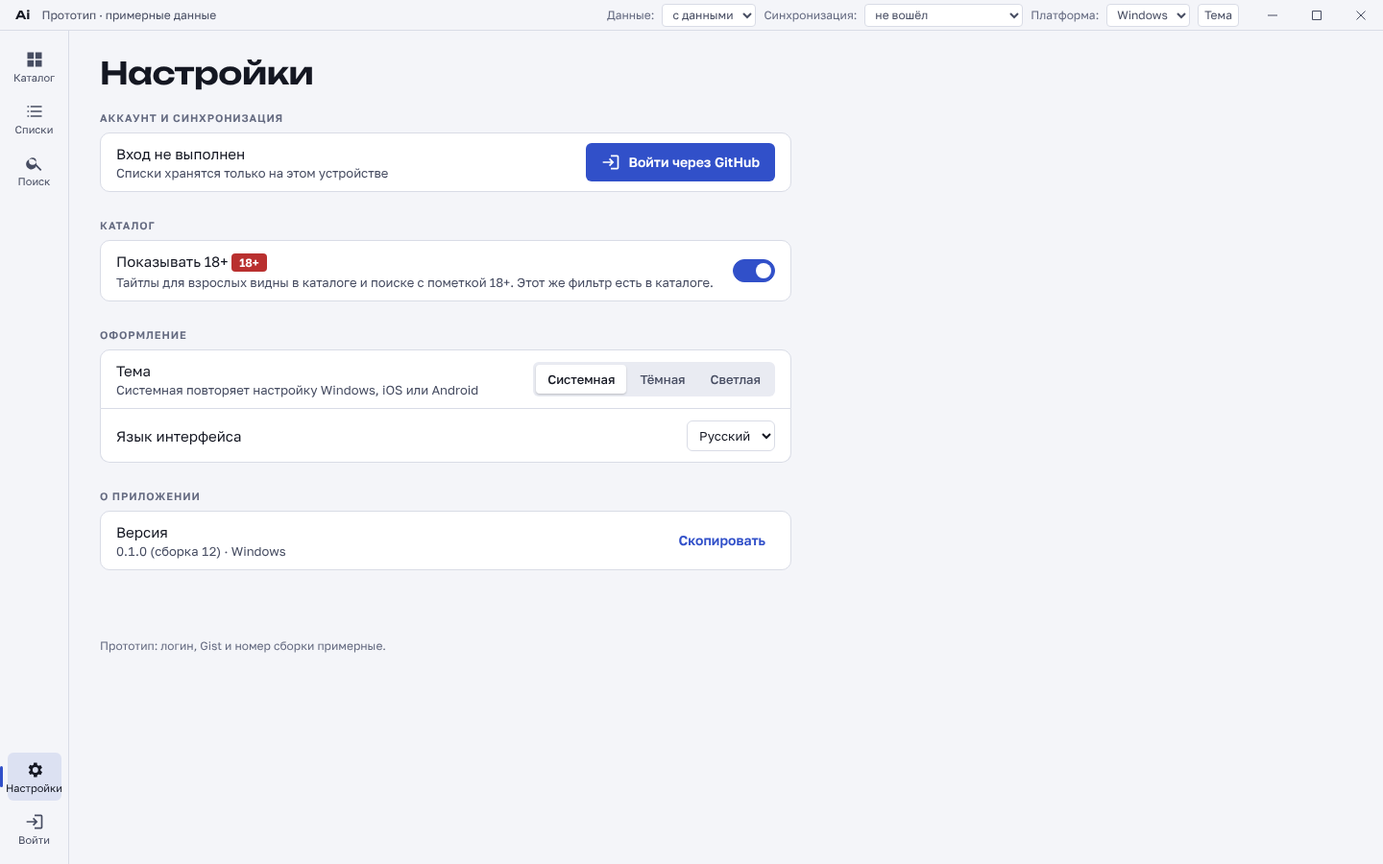
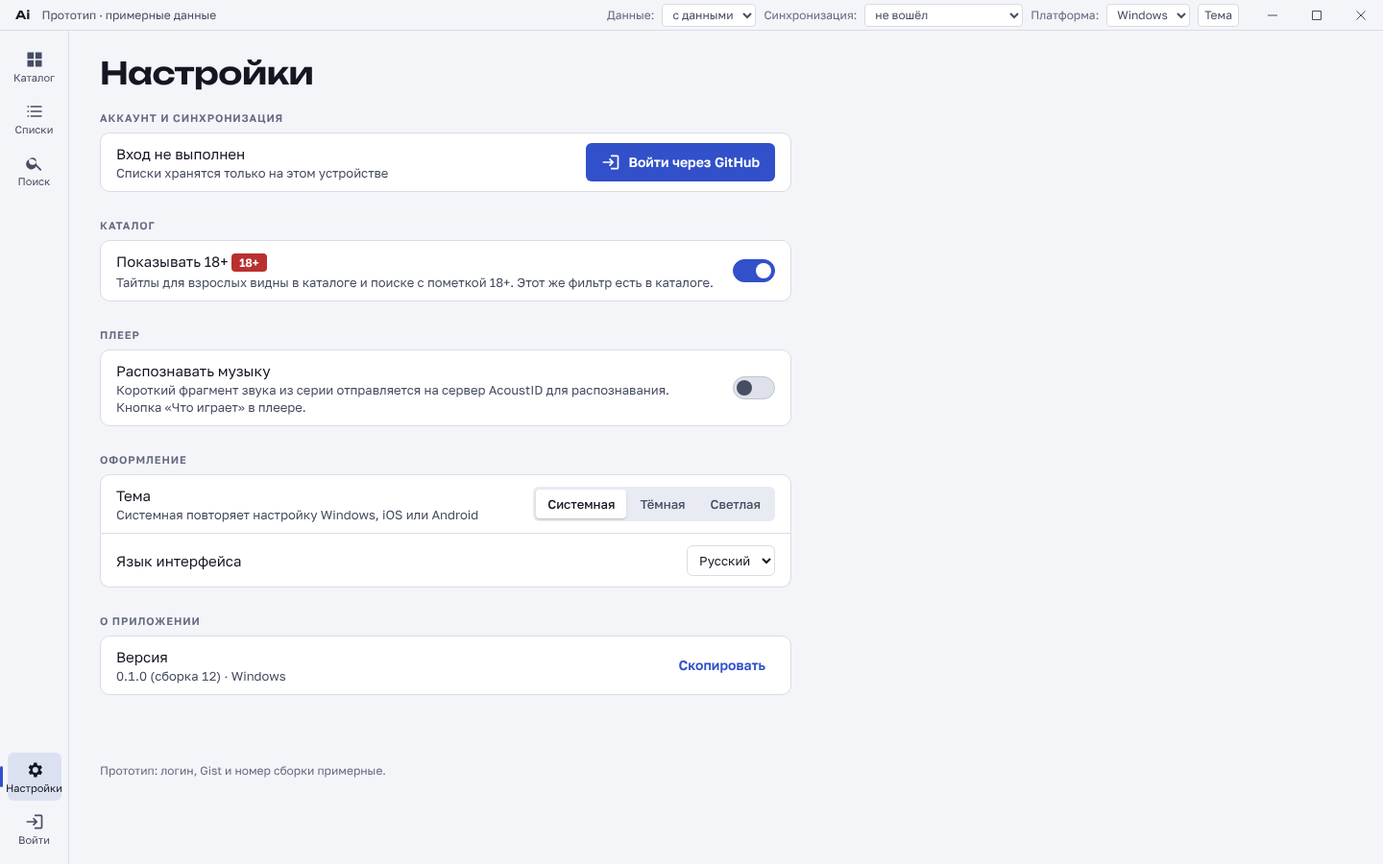
design: «Что играет» в плеере и настройка распознавания музыки
Claude-Session: https://claude.ai/code/session_014SLhsG472wUjxdzf1dwfhU

diff --git a/design/prototype/index.html b/design/prototype/index.html
@@ -266,6 +266,27 @@ h3 { font: 600 18px/24px var(--f-text); margin: 0; }
 .pop button:hover { background: #FFFFFF14; }
 .pop button small { grid-column: 1; color: var(--pl-fg2); font-size: 12px; line-height: 16px; }
 .pop button svg { grid-row: 1 / 3; grid-column: 2; align-self: center; color: #8399FF; }
+.pop.music { width: 340px; padding: 12px; }
+.mus { display: grid; gap: 12px; }
+.mus .row { display: flex; gap: 12px; align-items: center; }
+.mus .cover { width: 64px; height: 64px; border-radius: var(--r-sm); flex: none; background: radial-gradient(70% 70% at 30% 30%, #F2B544, transparent 70%), linear-gradient(135deg, #A8455E, #3E5BA9); }
+.mus .t { font: 600 16px/20px var(--f-display); }
+.mus .a { color: var(--pl-fg2); font-size: 14px; }
+.mus .note { color: var(--pl-fg2); font-size: 13px; line-height: 18px; }
+.mus .acts { display: flex; gap: 8px; flex-wrap: wrap; }
+.pop.music .acts button, .pop.music .acts a { width: auto; min-height: 0; display: inline-flex; grid-template-columns: none; padding: 0 14px; border-radius: var(--r-sm); }
+.pop.music .acts svg { color: inherit; grid-row: auto; grid-column: auto; }
+.mus .acts .btn { height: 36px; color: #FFFFFF; }
+.mus .acts .btn-filled { background: #8399FF; color: #0E1016; }
+.mus .acts .btn-outline { border-color: #FFFFFF4D; }
+.mus .acts .btn-outline:hover { background: #FFFFFF14; }
+.mus .wave { display: flex; gap: 3px; align-items: center; height: 24px; }
+.mus .wave i { width: 3px; border-radius: 2px; background: #8399FF; animation: wave 1s ease-in-out infinite; }
+.mus .wave i:nth-child(2) { animation-delay: .15s; } .mus .wave i:nth-child(3) { animation-delay: .3s; } .mus .wave i:nth-child(4) { animation-delay: .45s; } .mus .wave i:nth-child(5) { animation-delay: .6s; }
+@keyframes wave { 0%, 100% { height: 6px; } 50% { height: 22px; } }
+.mus .demo { display: flex; gap: 6px; align-items: center; font-size: 11px; color: var(--pl-fg2); border-top: 1px solid #FFFFFF1A; padding-top: 8px; }
+.mus .demo select { font-size: 11px; height: 22px; background: #FFFFFF14; color: #FFFFFF; border: 1px solid #FFFFFF26; border-radius: 4px; }
+.mus .bad { color: #F27B7B; }
 .skip { position: absolute; right: max(24px, env(safe-area-inset-right, 0px)); bottom: 120px; height: 40px; padding: 0 16px; border-radius: var(--r-sm); background: #FFFFFFE6; color: #0E1016; font-weight: 600; display: flex; align-items: center; gap: 8px; }
 .skip:hover { background: #FFFFFF; }
 .next { position: absolute; right: max(24px, env(safe-area-inset-right, 0px)); bottom: 110px; width: 320px; max-width: calc(100% - 48px); background: var(--pl-panel); -webkit-backdrop-filter: blur(24px); backdrop-filter: blur(24px); border: 1px solid #FFFFFF1A; border-radius: var(--r-lg); overflow: hidden; box-shadow: 0 16px 48px #000000A0; }
@@ -572,6 +593,8 @@ const I = {
   rw:'M12 5V1L7 6l5 5V7a6 6 0 1 1-6 6H4a8 8 0 1 0 8-8z', fw:'M12 5V1l5 5-5 5V7a6 6 0 1 0 6 6h2a8 8 0 1 1-8-8z',
   vol:'M3 9v6h4l5 5V4L7 9zm13.5 3A4.5 4.5 0 0 0 14 8v8a4.5 4.5 0 0 0 2.5-4zM14 3.2v2.1a7 7 0 0 1 0 13.4v2.1a9 9 0 0 0 0-17.6z',
   full:'M7 14H5v5h5v-2H7zm-2-4h2V7h3V5H5zm12 7h-3v2h5v-5h-2zM14 5v2h3v3h2V5z',
+  music:'M12 3v10.6A4 4 0 1 0 14 17V7h4V3z',
+  ext:'M14 3v2h3.6l-9.8 9.8 1.4 1.4L19 6.4V10h2V3zm5 16H5V5h7V3H5a2 2 0 0 0-2 2v14a2 2 0 0 0 2 2h14a2 2 0 0 0 2-2v-7h-2z',
   full_exit:'M5 16h3v3h2v-5H5zm3-8H5v2h5V5H8zm6 11h2v-3h3v-2h-5zm2-11V5h-2v5h5V8z',
   heart:'M12 21.4 10.6 20C5.4 15.4 2 12.3 2 8.5A5.4 5.4 0 0 1 7.5 3 6 6 0 0 1 12 5a6 6 0 0 1 4.5-2A5.4 5.4 0 0 1 22 8.5c0 3.8-3.4 6.9-8.6 11.5z',
   plus:'M19 13h-6v6h-2v-6H5v-2h6V5h2v6h6z', skip:'M4 18l8.5-6L4 6zm9-12v12l8.5-6z',
@@ -622,7 +645,7 @@ const DAN_EPS = ['Так начинается любовь, да?','Это же 
 // Абстрактный источник: названия студий условные
 const DUBS = [{n:'Студия А', k:'Озвучка · 1080p'},{n:'Студия Б', k:'Озвучка · 720p'},{n:'Субтитры', k:'Русские · 1080p'},{n:'Оригинал', k:'Японский · 1080p'}];
 
-const S = { genres:new Set(), format:'all', sort:'pop', hideMine:false, tab:'CURRENT', view:'grid', titleId:1, titleTab:'eps', dub:0, lang:'ru', theme:null, adult:true, login:'start' };
+const S = { genres:new Set(), format:'all', sort:'pop', hideMine:false, tab:'CURRENT', view:'grid', titleId:1, titleTab:'eps', dub:0, lang:'ru', music:false, musicDemo:'found', theme:null, adult:true, login:'start' };
 try { const t = localStorage.getItem('ai-theme'); if (t) { S.theme = t; document.documentElement.dataset.theme = t; } } catch(e) {}
 
 const $ = s => document.querySelector(s);
@@ -796,6 +819,9 @@ function viewSettings() {
     <section class="group"><div class="overline">Каталог</div>
       <div class="srow"><span class="lbl">Показывать 18+ <span class="tag adult-tag">18+</span><small>Тайтлы для взрослых видны в каталоге и поиске с пометкой 18+. Этот же фильтр есть в каталоге.</small></span>${sw('setAdult', S.adult, 'Показывать 18+')}</div>
     </section>
+    <section class="group"><div class="overline">Плеер</div>
+      <div class="srow"><span class="lbl">Распознавать музыку<small>Короткий фрагмент звука из серии отправляется на сервер AcoustID для распознавания. Кнопка «Что играет» в плеере.</small></span>${sw('setMusic', S.music, 'Распознавать музыку')}</div>
+    </section>
     <section class="group"><div class="overline">Оформление</div>
       <div class="srow"><span class="lbl">Тема<small>Системная повторяет настройку Windows, iOS или Android</small></span>
         <div class="seg" role="group" aria-label="Тема">${[['system','Системная'],['dark','Тёмная'],['light','Светлая']].map(([k,l]) => `<button type="button" data-settheme="${k}" aria-pressed="${themePref() === k}">${l}</button>`).join('')}</div></div>
@@ -877,7 +903,7 @@ function viewTitle() {
 }
 
 /* ---------- Плеер ---------- */
-const P = { dur:1440, t:70, buf:300, playing:true, opA:50, opB:140, ui:true, fs:false, hideT:null, timer:null, dubOpen:false, next:null, marked:false };
+const P = { dur:1440, t:70, buf:300, playing:true, opA:50, opB:140, ui:true, fs:false, mus:null, musT:null, hideT:null, timer:null, dubOpen:false, next:null, marked:false };
 function fmtT(s) { s = Math.max(0, Math.round(s)); return `${Math.floor(s/60)}:${String(s%60).padStart(2,'0')}`; }
 function viewPlayer() {
   const a = DATA.find(x => x.id === S.titleId) || DATA[0];
@@ -891,6 +917,8 @@ function viewPlayer() {
       <a class="pl-btn" href="#title" aria-label="Назад к тайтлу">${ic('back')}</a>
       <div class="pl-title"><div>${esc(a.t)}</div><div>Серия ${n} · ${esc(epName)}</div></div>
       <div class="pl-right">
+        <button class="pl-btn" type="button" id="musicBtn" aria-haspopup="dialog" aria-expanded="${!!P.mus}" aria-label="Что играет" title="Что играет">${ic('music')}</button>
+        <div class="pop music" id="musicPop" role="dialog" aria-label="Что играет" aria-live="polite" ${P.mus ? '' : 'hidden'}>${musicBody()}</div>
         <button class="pl-pill" type="button" id="dubBtn" aria-haspopup="menu" aria-expanded="${P.dubOpen}">${ic('cc')}${DUBS[S.dub].n}${ic('chev')}</button>
         <button class="pl-btn" type="button" aria-label="Настройки">${ic('settings')}</button>
         <div class="pop" id="dubPop" role="menu" ${P.dubOpen ? '' : 'hidden'}><div class="h">Озвучка и субтитры</div>
@@ -967,6 +995,31 @@ function showNext() {
 }
 function clearNext() { if (P.next && P.next.iv) clearInterval(P.next.iv); P.next = null; const b = $('#next'); if (b) b.hidden = true; }
 function goNext() { clearNext(); P.t = 0; P.buf = 240; P.marked = false; P.playing = true; render(); }
+function musicBody() {
+  const st = P.mus, demo = `<div class="demo"><label for="musDemo">Демо-результат:</label><select id="musDemo"><option value="found"${S.musicDemo === 'found' ? ' selected' : ''}>найдено</option><option value="notfound"${S.musicDemo === 'notfound' ? ' selected' : ''}>не найдено</option><option value="error"${S.musicDemo === 'error' ? ' selected' : ''}>ошибка сети</option></select></div>`;
+  const at = fmtT(P.musAt || P.t);
+  let b = '';
+  if (st === 'off') b = `<div class="h" style="padding:0">Что играет</div><div>Распознавание музыки выключено</div>
+    <div class="note">Короткий фрагмент звука из серии отправляется на сервер AcoustID для распознавания.</div>
+    <div class="acts"><button class="btn btn-filled" type="button" data-mus="enable">Включить и распознать</button><a class="btn btn-outline" href="#settings" style="text-decoration:none">Настройки</a></div>`;
+  if (st === 'listening') b = `<div class="h" style="padding:0">Что играет</div><div class="row"><span class="wave" aria-hidden="true"><i></i><i></i><i></i><i></i><i></i></span><div><div>Слушаем фрагмент…</div><div class="note">около 10 секунд, с ${at}</div></div></div>
+    <div class="acts"><button class="btn btn-outline" type="button" data-mus="close">Отмена</button></div>`;
+  if (st === 'found') b = `<div class="h" style="padding:0">Сейчас играет · ${at}</div><div class="row"><span class="cover" role="img" aria-label="Обложка"></span><div style="min-width:0"><div class="t">Otonoke</div><div class="a">Creepy Nuts</div><div class="note">Опенинг · совпадение 94%</div></div></div>
+    <div class="acts"><a class="btn btn-filled" href="https://musicbrainz.org/search?query=Otonoke%20Creepy%20Nuts&type=recording" target="_blank" rel="noopener" style="text-decoration:none">${ic('ext')}Открыть в MusicBrainz</a><button class="btn btn-outline" type="button" data-mus="copy">Скопировать</button></div>`;
+  if (st === 'notfound') b = `<div class="h" style="padding:0">Что играет · ${at}</div><div>Не удалось узнать трек</div><div class="note">Попробуйте, когда звучит песня без диалога и эффектов.</div>
+    <div class="acts"><button class="btn btn-filled" type="button" data-mus="run">Ещё раз</button><button class="btn btn-outline" type="button" data-mus="close">Закрыть</button></div>`;
+  if (st === 'error') b = `<div class="h" style="padding:0">Что играет</div><div class="bad">Нет связи с AcoustID</div><div class="note">Распознавание работает только онлайн. Проверьте подключение.</div>
+    <div class="acts"><button class="btn btn-filled" type="button" data-mus="run">Повторить</button><button class="btn btn-outline" type="button" data-mus="close">Закрыть</button></div>`;
+  return `<div class="mus">${b}${st && st !== 'off' ? demo : ''}</div>`;
+}
+function paintMusic() { const m = $('#musicPop'); if (!m) return; m.hidden = !P.mus; m.innerHTML = musicBody(); const b = $('#musicBtn'); if (b) b.setAttribute('aria-expanded', !!P.mus); showUi(); }
+function runMusic() {
+  clearTimeout(P.musT);
+  if (!S.music) { P.mus = 'off'; paintMusic(); return; }
+  P.mus = 'listening'; P.musAt = P.t; paintMusic();
+  P.musT = setTimeout(() => { if (P.mus === 'listening') { P.mus = S.musicDemo; paintMusic(); } }, 2500);
+}
+function closeMusic() { clearTimeout(P.musT); P.mus = null; paintMusic(); }
 function toggleFs(v) {
   P.fs = v === undefined ? !P.fs : v;
   applyPlatform();
@@ -976,7 +1029,7 @@ function toggleFs(v) {
 function showUi() {
   const pl = $('#player'); if (!pl) return;
   pl.classList.remove('hide-ui'); clearTimeout(P.hideT);
-  P.hideT = setTimeout(() => { if (P.playing && !P.dubOpen && !P.next) pl.classList.add('hide-ui'); }, 3000);
+  P.hideT = setTimeout(() => { if (P.playing && !P.dubOpen && !P.mus && !P.next) pl.classList.add('hide-ui'); }, 3000);
 }
 
 /* ---------- тост ---------- */
@@ -1032,6 +1085,7 @@ function render() {
   $('#main').innerHTML = ROUTES[r]();
   if (r !== 'player') $('#main').scrollTop = 0;
   if (r === 'search') { paintSearch(); const i = $('#sq'); if (i) i.focus(); }
+  if (r !== 'player') { clearTimeout(P.musT); P.mus = null; }
   if (r === 'player') { P.timer = setInterval(playerTick, 1000); playerPaint(); showUi(); }
 }
 window.addEventListener('hashchange', () => { P.dubOpen = false; render(); });
@@ -1082,7 +1136,13 @@ document.addEventListener('click', e => {
   else if (t.id === 'fsBtn') toggleFs();
   else if (t.id === 'nextBtn' || t.id === 'goNext') goNext();
   else if (t.id === 'cancelNext') { clearNext(); P.next = { cancelled:true }; }
-  else if (t.id === 'dubBtn') { P.dubOpen = !P.dubOpen; $('#dubPop').hidden = !P.dubOpen; t.setAttribute('aria-expanded', P.dubOpen); showUi(); }
+  else if (t.id === 'musicBtn') { if (P.mus) closeMusic(); else { P.dubOpen = false; $('#dubPop').hidden = true; runMusic(); } }
+  else if (d.mus === 'enable') { S.music = true; runMusic(); }
+  else if (d.mus === 'run') runMusic();
+  else if (d.mus === 'close') closeMusic();
+  else if (d.mus === 'copy') { try { navigator.clipboard.writeText('Creepy Nuts — Otonoke').catch(() => {}); } catch(e) {} toast('Скопировано: Creepy Nuts — Otonoke', null, null, true); }
+  else if (t.id === 'setMusic') { S.music = !S.music; t.setAttribute('aria-checked', S.music); }
+  else if (t.id === 'dubBtn') { closeMusic(); P.dubOpen = !P.dubOpen; $('#dubPop').hidden = !P.dubOpen; t.setAttribute('aria-expanded', P.dubOpen); showUi(); }
   else if (d.pdub) { S.dub = +d.pdub; P.dubOpen = false; render(); toast(`Озвучка: ${DUBS[S.dub].n}. Позиция сохранена`, null, null, true); }
   if (!t.closest('.actions')) { const m = $('#statusMenu'); if (m) m.hidden = true; }
 });
@@ -1090,6 +1150,7 @@ document.addEventListener('click', e => { if (!e.target.closest('.actions')) { c
 document.addEventListener('change', e => {
   if (e.target.id === 'sort') { S.sort = e.target.value; render(); }
   if (e.target.id === 'demoPlatform') render();
+  if (e.target.id === 'musDemo') { S.musicDemo = e.target.value; runMusic(); }
   if (e.target.id === 'demoSync') { if (e.target.value === 'out') S.login = 'start'; render(); }
   if (e.target.id === 'demoState') { if (route() === 'search') paintSearch(); else if (route() !== 'catalog') location.hash = 'catalog'; else render(); }
   if (e.target.id === 'setLang') S.lang = e.target.value;
@@ -1124,7 +1185,8 @@ document.addEventListener('keydown', e => {
   if (e.code === 'KeyS' && !$('#skip').hidden) { P.t = P.opB; playerPaint(); }
   if (e.code === 'KeyN' && e.shiftKey) goNext();
   if (e.code === 'KeyF' && !e.ctrlKey && !e.metaKey && e.target.tagName !== 'INPUT') toggleFs();
-  if (e.key === 'Escape' && P.fs && !(P.next && P.next.iv) && !P.dubOpen) { toggleFs(false); return; }
+  if (e.key === 'Escape' && P.fs && !(P.next && P.next.iv) && !P.dubOpen && !P.mus) { toggleFs(false); return; }
+  if (e.key === 'Escape' && P.mus) { closeMusic(); return; }
   if (e.key === 'Escape') { if (P.next && P.next.iv) { clearNext(); P.next = { cancelled:true }; } else if (P.dubOpen) { P.dubOpen = false; $('#dubPop').hidden = true; } }
 });
 $('#themeBtn').onclick = () => {

diff --git a/design/screens.md b/design/screens.md
@@ -108,6 +108,18 @@
 
 Решение для кодинга: полноэкранный режим — состояние самого приложения, а не системный видеоплеер. Flutter: свой флаг `isFullscreen`, при входе `SystemChrome.setEnabledSystemUIMode(SystemUiMode.immersiveSticky)`, при выходе `SystemUiMode.edgeToEdge`; на Windows — разворот окна во весь экран средствами приложения (`window_manager.setFullScreen`), скрытие NavRail и строки заголовка в нашем дереве виджетов. В веб-прототипе браузерный Fullscreen API не используется (Safari на iOS разворачивает только `<video>`), режим имитируется скрытием панелей.
 
+**Что играет (распознавание музыки, этап 4.5).** Кнопка-иконка ноты (`music_note`) в верхней панели плеера слева от выбора озвучки. Нажатие открывает поповер `MusicPanel` 340 шириной (на телефоне в альбомной — тот же поповер справа). Пока поповер открыт, оверлей не прячется; Esc или повторное нажатие закрывает.
+
+| Состояние | Что видно | Действия |
+|---|---|---|
+| Выключено в настройках | «Распознавание музыки выключено» + текст о приватности («Короткий фрагмент звука из серии отправляется на сервер AcoustID для распознавания») | «Включить и распознать» (включает настройку и сразу запускает), «Настройки» |
+| Распознаётся | анимированная волна + «Слушаем фрагмент… около 10 секунд, с 1:10» | «Отмена» |
+| Найдено | заголовок «Сейчас играет · 1:10», обложка 64 (если есть в Cover Art Archive, иначе плитка с нотой), название (`display` 16), исполнитель, тип/совпадение | «Открыть в MusicBrainz» (filled, внешняя ссылка), «Скопировать» («Исполнитель — Название») |
+| Не найдено | «Не удалось узнать трек» + «Попробуйте, когда звучит песня без диалога и эффектов» | «Ещё раз», «Закрыть» |
+| Ошибка сети | «Нет связи с AcoustID» (`bad`) + «Распознавание работает только онлайн» | «Повторить», «Закрыть» |
+
+Распознаётся фрагмент от текущей позиции; видео продолжает играть. Результат привязан к таймкоду, при перемотке поповер не сбрасывается, пока его не закроют. Плитка обложки без картинки — `surface3` с иконкой ноты.
+
 **Выбор озвучки (`DubPicker`).** Поповер со списком на 1–10+ вариантов: название студии, тип (озвучка / субтитры / оригинал), доступное качество. Озвучка может прийти как аудиодорожка того же потока (переключение мгновенное) или как отдельный поток (короткая буферизация, позиция сохраняется) — для пользователя выглядит одинаково. От 7 вариантов — группы «Озвучка» / «Субтитры» и поле фильтра сверху, высота поповера не больше 60% экрана, внутри прокрутка. Один вариант — кнопка не открывает список, просто показывает название. Выбранная озвучка запоминается для тайтла.
 
 **Переход к следующей серии (`NextEpisodeCard`).** За 20 с до конца (или с начала эндинга) справа снизу появляется карточка: кадр следующей серии, «Серия 7 · Название», кольцо обратного отсчёта 10 с и кнопки «Смотреть сейчас» / «Отмена». Если серия последняя — карточка «Сезон просмотрен» с кнопкой «Оценить» и рекомендацией.
@@ -190,7 +202,8 @@
    - Вошёл: строка с `SyncBar` (текущее состояние и кнопка «Синхронизировать» или «Повторить», когда нужно) и строка «GitHub · логин · Приватный Gist „anime-lists“ · N тайтлов» + «Выйти из GitHub» (outline). Выход без подтверждения, тост «Вы вышли из GitHub. Списки остались на устройстве».
 2. **Каталог.** «Показывать 18+» с бейджем `AdultBadge` и переключателем, по умолчанию включён. Подпись: «Тайтлы для взрослых видны в каталоге и поиске с пометкой 18+». Это то же значение, что фильтр-чип в каталоге: меняется в одном месте — меняется в другом.
 3. **Оформление.** Тема: сегменты «Системная / Тёмная / Светлая», по умолчанию «Системная». Язык интерфейса: «Русский / English» (по умолчанию язык системы, если он есть в списке, иначе русский).
-4. **О приложении.** «Версия 0.1.0 (сборка 12) · платформа» + «Скопировать» (для баг-репортов).
+4. **Плеер.** «Распознавать музыку» — переключатель, по умолчанию **выключен**. Пояснение: «Короткий фрагмент звука из серии отправляется на сервер AcoustID для распознавания. Кнопка „Что играет“ в плеере». Кнопка в плеере видна и при выключенной настройке, но вместо распознавания показывает состояние «выключено».
+5. **О приложении.** «Версия 0.1.0 (сборка 12) · платформа» + «Скопировать» (для баг-репортов).
 
 **Платформы.**
 

diff --git a/design/README.md b/design/README.md
@@ -7,7 +7,7 @@
 | `tokens.json` | Цвета (тёмная и светлая темы), статусы списков, типографика, отступы, радиусы, сетка, анимации, состояния. Источник правды для темы |
 | `screens.md` | Каталог, Мои списки, Карточка аниме, Плеер, Вход через GitHub, Синхронизация, Поиск, Настройки, iOS и Android (§8): структура, поведение, состояния |
 | `components.md` | Компоненты, правила hover / pressed / focus / disabled / loading / empty / error и соответствие Flutter-виджетам |
-| `screenshots/` | 41 PNG (плеер: обычный вид и полный экран — 10/10a, 35/35a, 45/45a): Windows 01–20 (1440×900), iOS 31–39 и Android 41–49 (390×844, плеер 844×390), обе темы |
+| `screenshots/` | 48 PNG (плеер: обычный вид и полный экран — 10/10a, 35/35a, 45/45a; «Что играет» — 10b–10f, 35b, 45b): Windows 01–20 (1440×900), iOS 31–39 и Android 41–49 (390×844, плеер 844×390), обе темы |
 | `prototype/index.html` | Интерактивный прототип четырёх экранов (примерные данные). Опубликован: https://claude.ai/artifact/RtfiteUewK8GpJdGGu6Vue |
 
 ## Визуальное направление
@@ -75,6 +75,11 @@
     - запасные цвета под `@supports not (color-mix…)` для Safari < 16.2 и Firefox < 113;
     - платформа в прототипе по умолчанию выбирается по устройству: iPhone/iPad → iOS, Android → Android, остальное → Windows.
 
+**2026-10-29 — распознавание музыки (этап 4.5, AcoustID)**
+
+28. **«Что играет»** — иконка ноты в верхней панели плеера, результат в поповере: распознаётся / найдено (название, исполнитель, обложка, «Открыть в MusicBrainz», «Скопировать») / не найдено / ошибка сети / выключено. Видео при распознавании не останавливается, оверлей не прячется, пока поповер открыт.
+29. **Настройка «Распознавать музыку»** в новой группе «Плеер», по умолчанию выключена, с текстом про отправку фрагмента на AcoustID. Из выключенного состояния в плеере можно включить одной кнопкой «Включить и распознать» — текст о приватности показан рядом с ней. **Для кодинга:** флаг в настройках `musicRecognition=false`; состояния панели `off | listening | found | notfound | error`; внешняя ссылка — на запись MusicBrainz по recording MBID из ответа AcoustID.
+
 ## Проверка по браузерам
 
 | Браузер | Движок | Как проверено | Результат |
@@ -94,6 +99,8 @@
 | Android: NavigationBar, switch, segmented, filter chips, bottom sheet статуса и языка, SearchBar, плоские настройки, вход, плеер в альбомной | проверено на прототипе, скриншоты 41–49 |
 | Сворачивание large title при прокрутке, свайп «назад» на iOS, системный «назад» на Android | только описано |
 | Полный экран плеера: Windows, iOS и Android, вход кнопкой и F, выход кнопкой и Esc | проверено на прототипе, скриншоты 10/10a, 35/35a, 45/45a |
+| «Что играет»: все 5 состояний, включение из плеера, настройка «Распознавать музыку» | проверено на прототипе (Chromium), скриншоты 10b–10f, 35b, 45b, 19/20 |
+| Реальный ответ AcoustID, обложка из Cover Art Archive, длительность распознавания | только описано |
 | Жесты плеера (двойной тап, свайпы яркости и громкости), PiP, AirPlay, Cast | только описано |
 | Портретная ориентация плеера, side sheet озвучки на Android, SnackBar M3 | только описано (в прототипе — общий тост и поповер) |
 | Safe area на устройствах с вырезом в альбомной ориентации | только описано |

diff --git a/design/components.md b/design/components.md
@@ -26,6 +26,7 @@
 - **Switch** — трек 44×24 радиус pill: выкл. — `surface3` с рамкой `borderStrong`, ручка `fg2` (6.2:1 к треку); вкл. — `accent`, ручка `onAccent`. Роль `switch`, вся строка настроек кликабельна. На iOS — `CupertinoSwitch`, на Android — `Switch` M3.
 - **SearchField** — высота 48, радиус md, рамка `borderStrong`, в фокусе `accent` 2px. Подсветка совпадений в подсказках — `accent` 35% под текстом `fg`.
 - **SettingsGroup / SettingsRow** — заголовок `overline`, строки на `surface1` с общей рамкой; слева подпись + пояснение `fg2`, справа один контрол.
+- **MusicPanel** — поповер плеера 340, `#161923E6` + blur 24, радиус md, отступ 12. Заголовок `overline` со временем фрагмента, обложка 64 радиус sm, название `display` 16, исполнитель `fg2`-аналог плеера (`#FFFFFFB8`), кнопки 36. Состояния: off / listening / found / notfound / error. `Semantics(liveRegion: true)` — результат зачитывается скринридером.
 - **ListStatusDot** — круг 24 цвета статуса с белой иконкой; рядом с цветом всегда иконка (без опоры только на цвет).
 - **StatusButton** — `MenuAnchor`: кнопка с иконкой и подписью текущего статуса, меню из 5 статусов + «Удалить из списка». Без статуса: «Добавить в список».
 - **FilterChip / SortMenu** — высота 32, радиус pill, рамка `border`; выбранный — `accentSoft` + `accent`. Сортировка — `MenuAnchor` с галочкой у текущего пункта.
